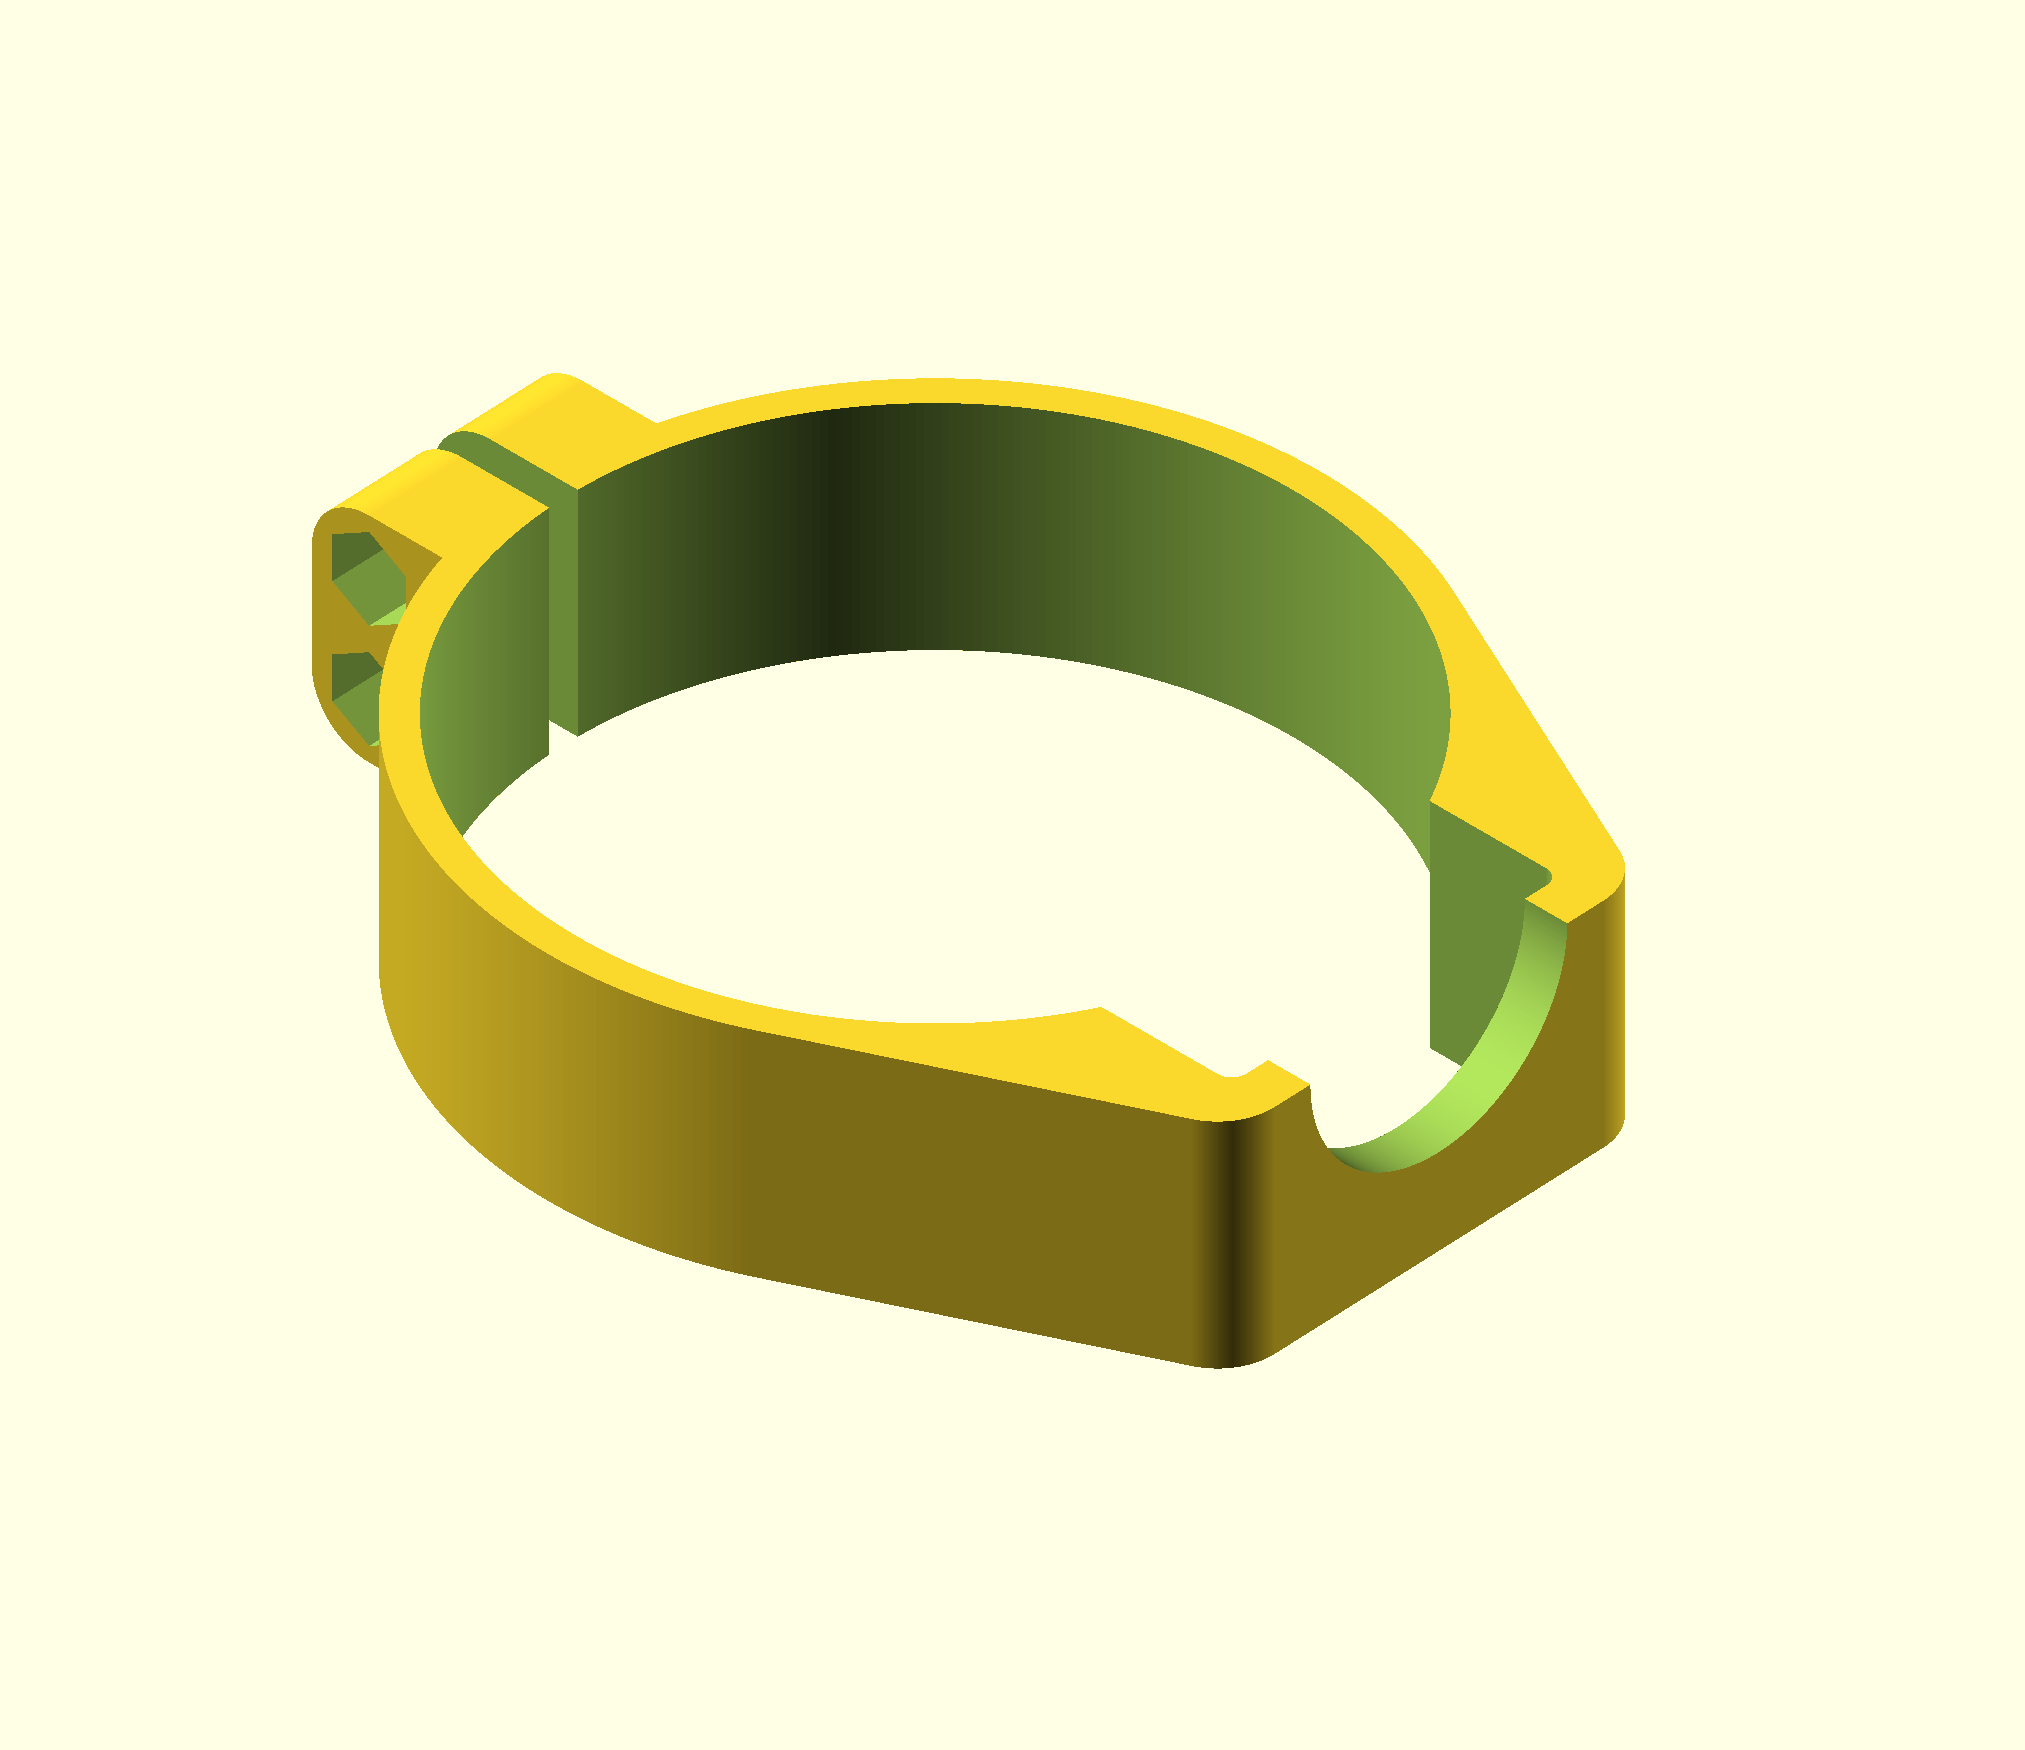
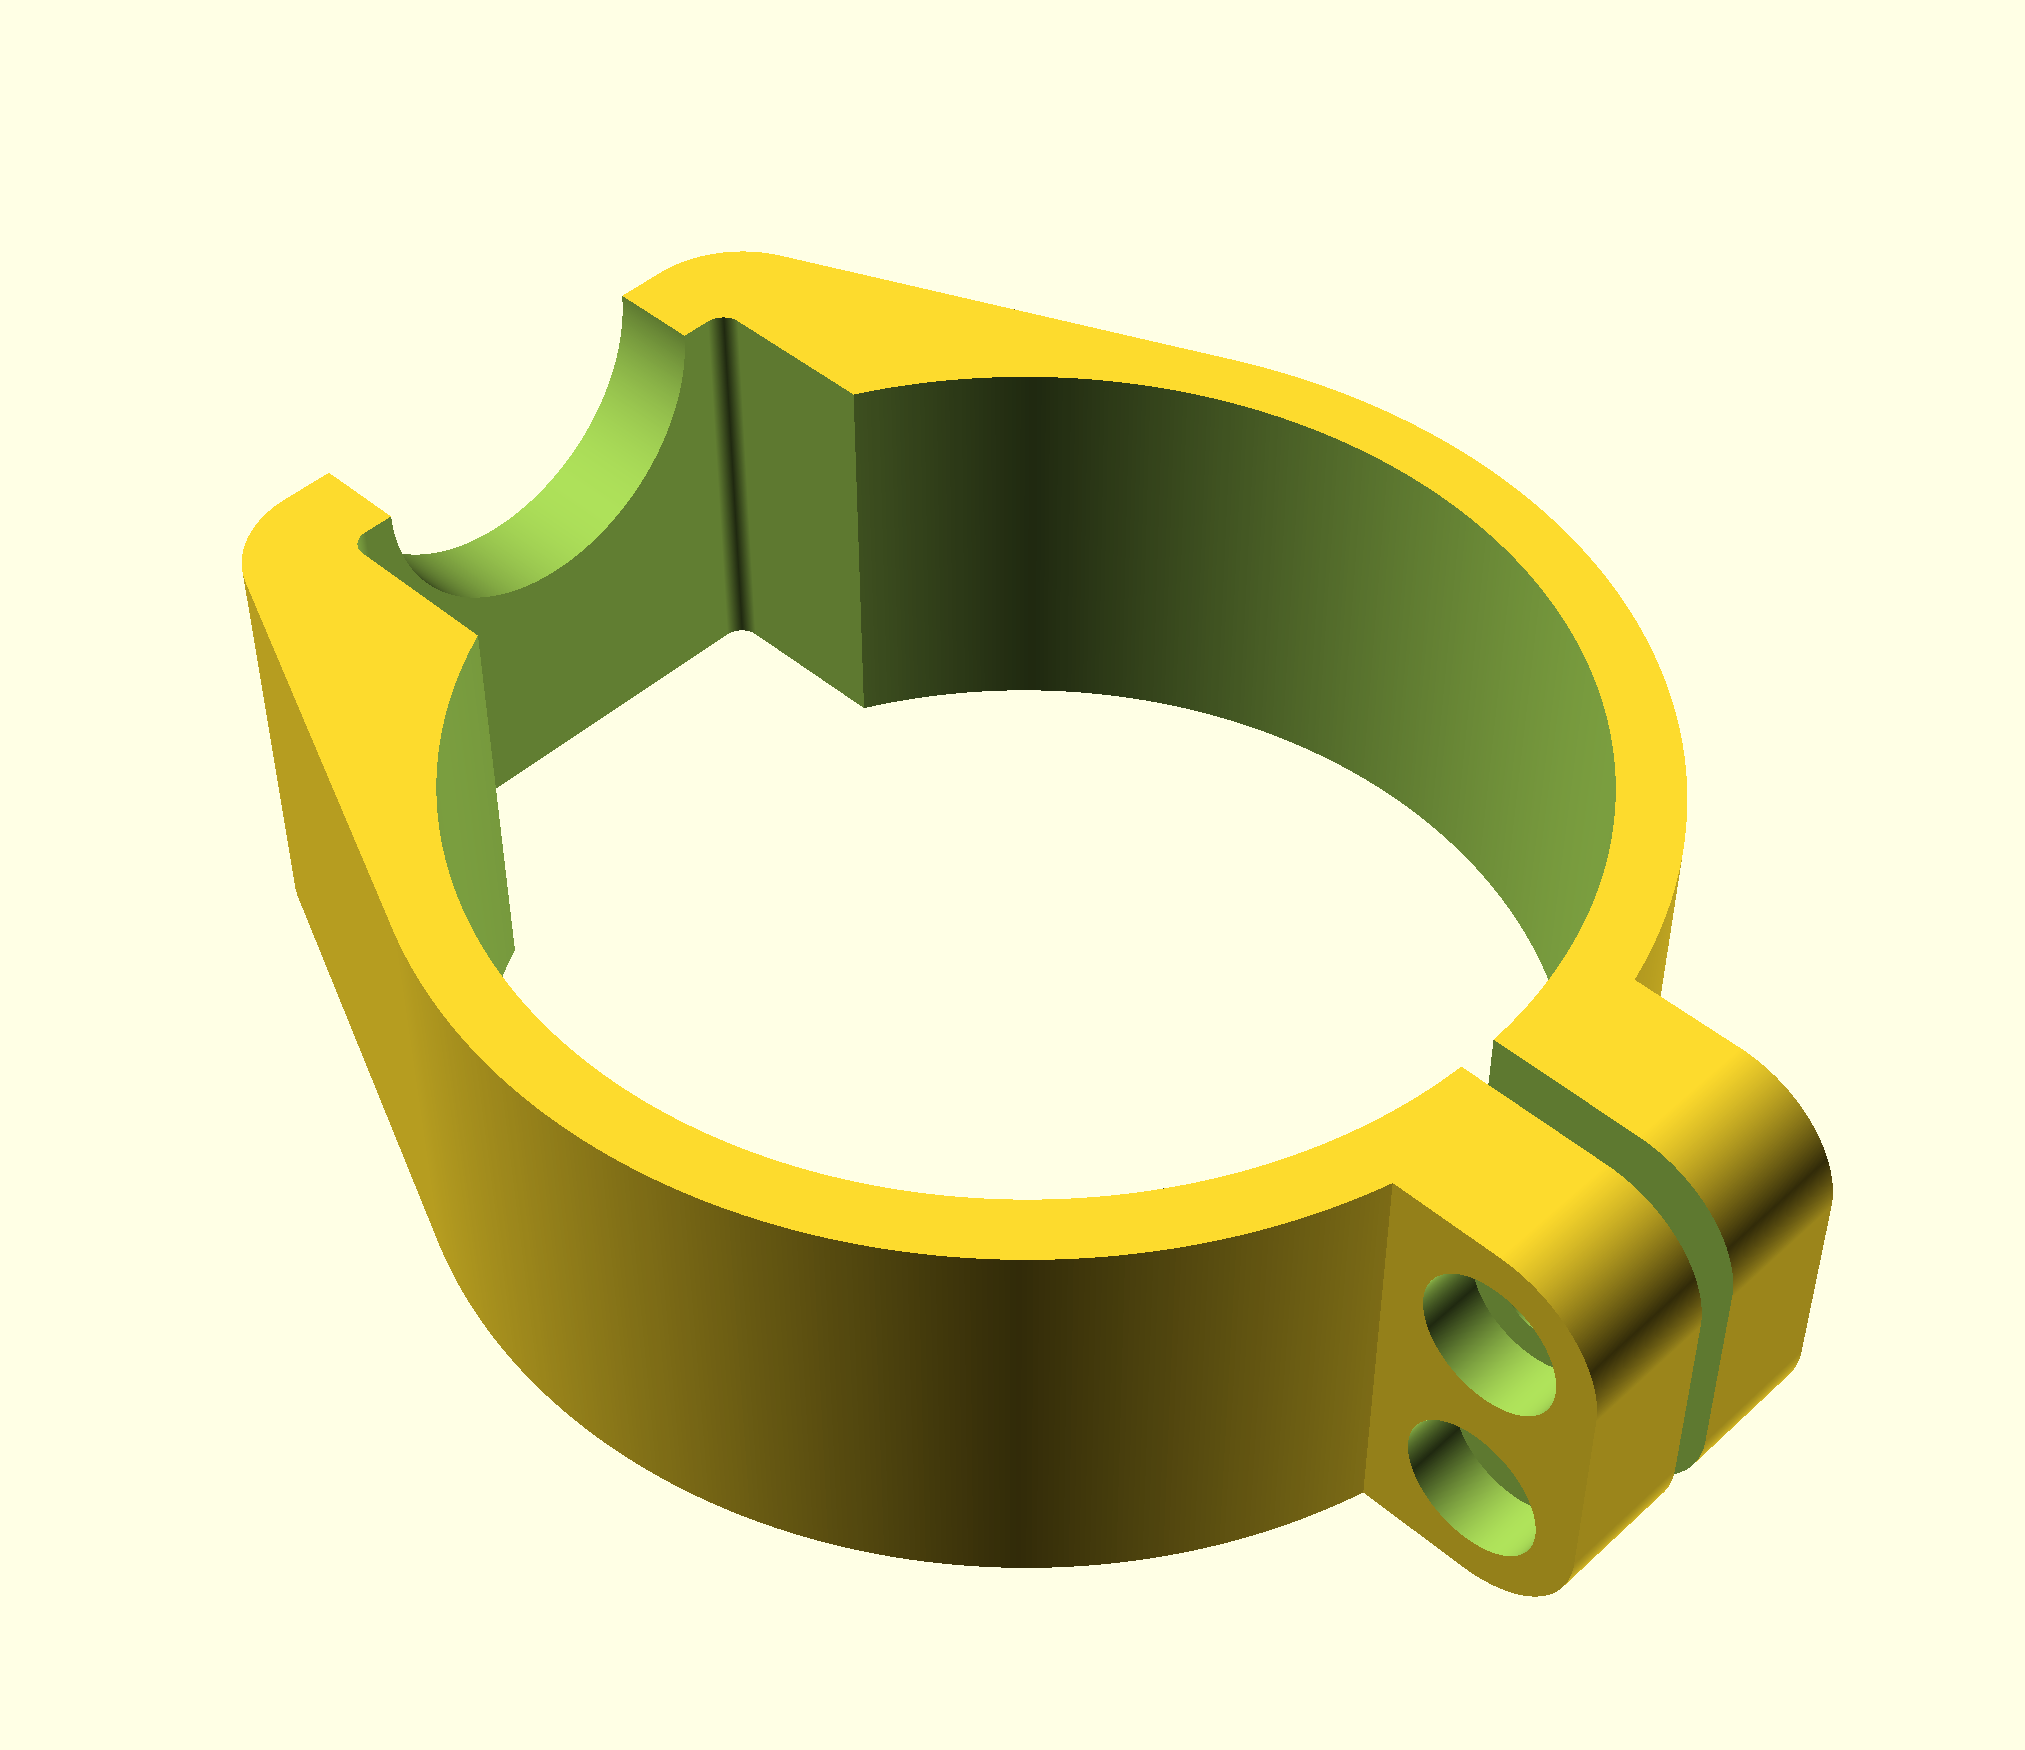
add pics, license, comments

diff --git a/README.md b/README.md
@@ -1,2 +1,18 @@
 # Dyson-Fluffy-Clamp
 Clamp to reinforce broken Dyson fluffy (DC74) latch.
+To be applied after gluing latch back in place; this clamp is to
+relieve the strain and keep it from breaking again.  You also need
+two M3 x 15mm cap-head bolts and two M3 locknuts.  Low-profile 3mm height
+will end up being flush with the surface, but regular locknuts will also work.
+Regular nuts would work for a while but you might have to retighten the
+clamp occasionally.
+
+Printed in PETG at 100% infill for strength.
+
+[CC-BY 3.0 License](LICENSE.md)
+
+![Rendering](clamp.png)
+
+![Printed, Top View](top.jpg)
+
+![Printed, Bottom View](bottom.jpg)

diff --git a/LICENSE.md b/LICENSE.md
@@ -1,0 +1,8 @@
+# License
+CC BY 3.0 License [https://creativecommons.org/licenses/by/3.0/]
+Attribution: Michael McCool
+
+Under the terms of the CC BY 3.0 license, you are free to use for any
+purpose and redistribute, but please include the above attribution
+in any redistribution.
+
